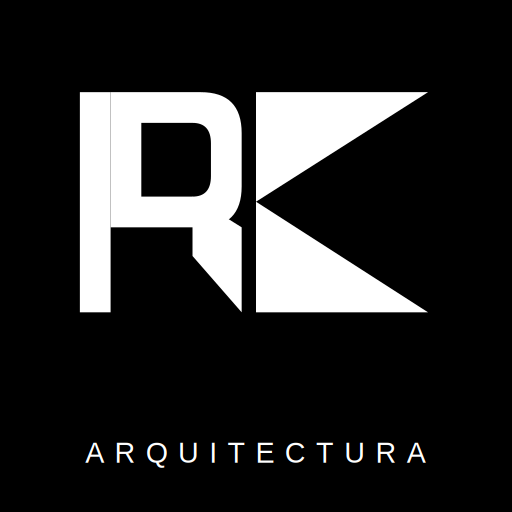
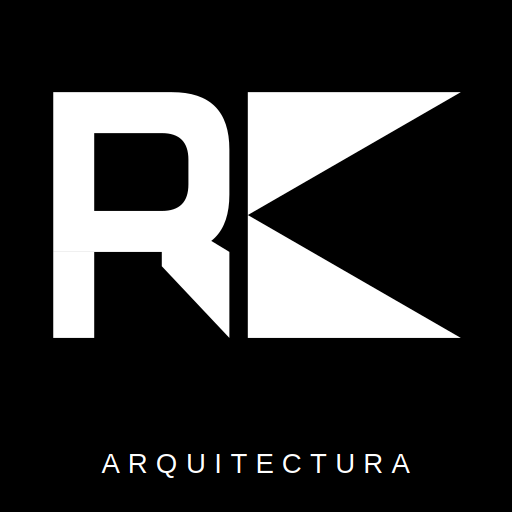
Fix scroll reset al cambiar tab + ícono RK Arquitectura mejorado
- mostrarTab() ahora llama window.scrollTo(0,0): elimina el espacio en
  blanco que aparecía al cambiar a paneles más cortos
- SVG del ícono PWA redibujado con proporciones del logo original:
  C hueca con pierna diagonal (R) + dos triángulos (K) + ARQUITECTURA
  Fondo negro, formas blancas

Claude-Session: https://claude.ai/code/session_01RNs1DvEozKhiX22ticPi9K

Changed region(s): [[0.0938, 0.1562, 0.9062, 0.6875], [0.1562, 0.8438, 0.8438, 0.9375]]

diff --git a/index.html b/index.html
@@ -6696,6 +6696,7 @@
 
         // Cerrar sidebar en mobile al navegar
         _tabActivo=nombre;
+        window.scrollTo(0, 0);
         if (window.innerWidth <= 768) closeMobileSidebar();
     }
 